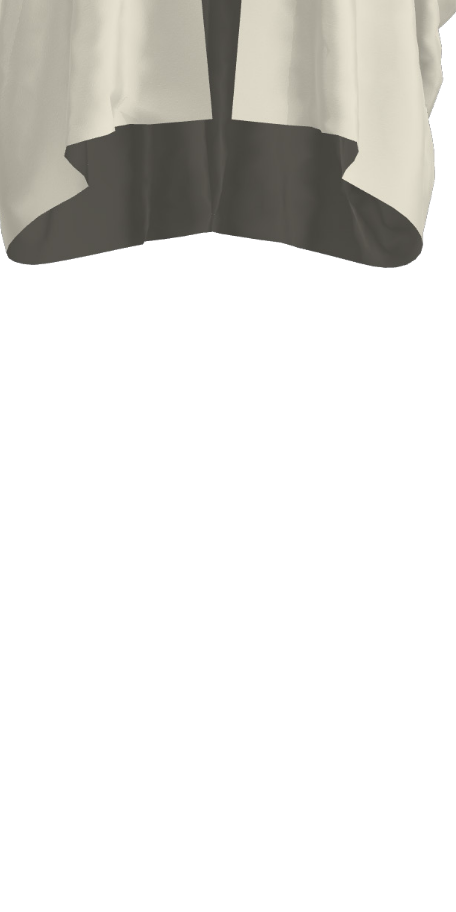
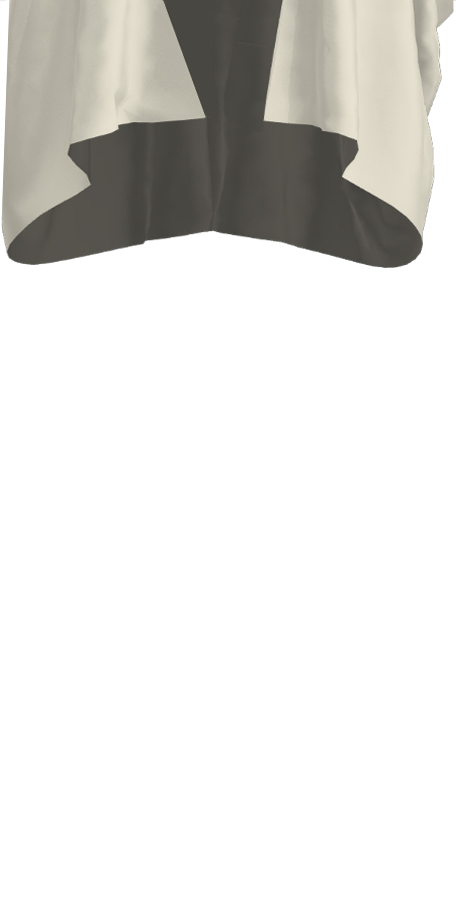
Edit stylesheet to remove superfluous attributes and replace two ill fitting coat body tiles

diff --git a/assets/css/style.css b/assets/css/style.css
@@ -22,10 +22,6 @@ body {
     scroll-behavior: smooth;
     flex-wrap: wrap;
     box-sizing: border-box;
-    font-family:'Ubuntu', "sans-serif";
-    font-size: 16px;
-    font-style: normal;
-    font-weight: 400;
     line-height: 1.8rem;
     list-style-type: none;
     color: var(--mu-dark);
@@ -34,18 +30,13 @@ body {
     background-color: var(--mu-white);
 }
 
-/* #fourzerofour {
-    background: url('assets/images/makeusebg.png') black no-repeat center center fixed;
-} */
-
 .back-to-makeuse {
     display: grid;
-    text-align: center;
+    align-content: center;
     place-items: center;
-    align-items: center;
-    margin: 8vh auto;
-    width: 100%;
-    height: 100%;
+    margin: auto auto;
+    width: 100vw;
+    height: 100vh;
 }
 
 .mu-button {
@@ -60,6 +51,11 @@ a {
     color: var(--mu-slate);
 }
 
+.maker-asterisk,
+#active-long-t:hover,
+#active-crop-t:hover,
+#active-coat:hover,
+#makeuseheader .nav-active,
 .navbar .nav-item a:hover,
 nav .nav-item:hover {
     color: var(--mu-gold);
@@ -69,12 +65,10 @@ p, h1, h2, h3, h4 {
     color: var(--mu-dark);
 }
 
+.maker,
+.take-me-there,
 #fabric-required span {
     color: var(--mu-orange);
-}
-
-#makeuseheader .nav-active {
-    color: var(--mu-gold);
 }
 
 #active-long-t,
@@ -87,17 +81,6 @@ p, h1, h2, h3, h4 {
     background-color: var(--mu-silversmoke);
     padding: 30px;
     margin: 30px auto 30px auto;
-}
-
-.maker-asterisk,
-#active-long-t:hover,
-#active-crop-t:hover,
-#active-coat:hover {
-    color: var(--mu-gold);
-}
-
-.maker, .take-me-there {
-    color: var(--mu-orange);
 }
 
 /* \\---  fonts  ---///////// */
@@ -148,7 +131,6 @@ h3 {
 }
    
 h4 {
-    font-size: 20px;
     margin: .2em auto .5em auto;
     padding-bottom: .8rem;
     line-height: 1.4em;
@@ -163,7 +145,7 @@ h5 {
 }
 
 #makeuse-intro  h2 {
-    font-size:56px;
+    font-size: 56px;
     font-weight: 500;
 }
 
@@ -257,6 +239,36 @@ nav .navbar .navbar-custom {
 .navbar .nav-item a {
     padding-left: 20px;
     justify-self: right;
+}
+
+/* \\---  downloads links  ---///////// */
+
+#crop-tshirt-downloads a,
+#long-tshirt-downloads > a,
+#coat-downloads > a {
+    color: var(--mu-slate);
+    text-decoration: none;
+    font-weight: 400;
+}
+
+#file-downloads-long-coat a {
+    color: var(--mu-slate);
+    text-decoration: none;
+    font-weight: 400;
+}
+
+#coat-downloads,
+#tshirt-downloads {
+    justify-content: center;
+}
+
+#file-downloads-long-tshirt > a {
+    text-decoration: underline;
+    text-decoration-color: var(--mu-orange);
+}
+
+#file-downloads-long-tshirt a:hover {
+    background-color: var(--mu-gold);
 }
 
 /* \\---  quick-nav links ---///////// */
@@ -459,12 +471,6 @@ img {
     display: none;
 }
 
-#grid-long-coat .tile-on,
-#grid-crop-tshirt .tile-on,
-#grid-long-tshirt .tile-on {
-    display: flex;
-}
-
 .neck-tile {
     display: flex;
     grid-column: 2;
@@ -507,10 +513,13 @@ img {
     align-content: flex-start;
 }
 
-.tile-on {
-    display: flex;
+/* \\---  garment tile postion tweaking  ---///// */
+
+#sleeve-right-long-coat img {
+    padding-top: 6px;
 }
 
+#sleeve-left-crop-tshirt,
 #sleeve-left-long-tshirt img {
     padding-top: 6px;
 }
@@ -708,10 +717,6 @@ video {
     filter: opacity(44%);
 }
 
-.tile-on {
-    display: flex;
-}
-
 /* \\---  iframe styles  ---///////// */
 
 /* styling below courtesy of vntana: https://www.vntana.com/resource/3d-webviewer/ */
@@ -851,7 +856,7 @@ model-viewer {
 .fade-in,
 .garment-tile img,
 img {
-    animation: fadeIn ease-in 50ms;
+    animation: fadeIn ease-in 60ms;
 }
 
 @keyframes fadeIn {
@@ -960,7 +965,6 @@ img {
     }
 
     .row {
-        max-width: 1024px;
         max-width: 999px;
         margin: auto;
     }
@@ -972,11 +976,6 @@ img {
     .garment-tile:hover {
         filter: opacity(77%);
     }
-}
-
-.tile-on {
-    display: flex;
-    align-items: center;
 }
 
 .grid-outer-wrapper {
@@ -1032,6 +1031,10 @@ img {
     height: 100px;
 }
 
+.tile-on {
+    display: flex;
+}
+
 /* \\--  template download anchor links  --///////// */
 
 #file-downloads a,
@@ -1040,16 +1043,15 @@ img {
 #file-downloads-long-coat a {
     transition: ease-in 1s all;
     display: none;
-    color: var(--mu-slate);
     text-decoration: none;
     font-weight: 400;
+    color: var(--mu-slate);
 }
 
 #grid-long-coat .tile-on,
 #grid-crop-tshirt .tile-on, 
 #grid-long-tshirt .tile-on {
     display: flex;
-    place-items: end;
 }
 
 #file-downloads,
@@ -1146,32 +1148,4 @@ img {
     align-content: start;
     justify-items: start;
     align-items: start;
-}
-
-#crop-tshirt-downloads a,
-#long-tshirt-downloads > a,
-#coat-downloads > a {
-    color: var(--mu-slate);
-    text-decoration: none;
-    font-weight: 400;
-}
-
-#file-downloads-long-coat a {
-    color: var(--mu-slate);
-    text-decoration: none;
-    font-weight: 400;
-}
-
-#coat-downloads,
-#tshirt-downloads {
-    justify-content: center;
-}
-
-#file-downloads-long-tshirt > a {
-    text-decoration: underline;
-    text-decoration-color: var(--mu-orange);
-}
-
-#file-downloads-long-tshirt a:hover {
-    background-color: var(--mu-gold);
 }
